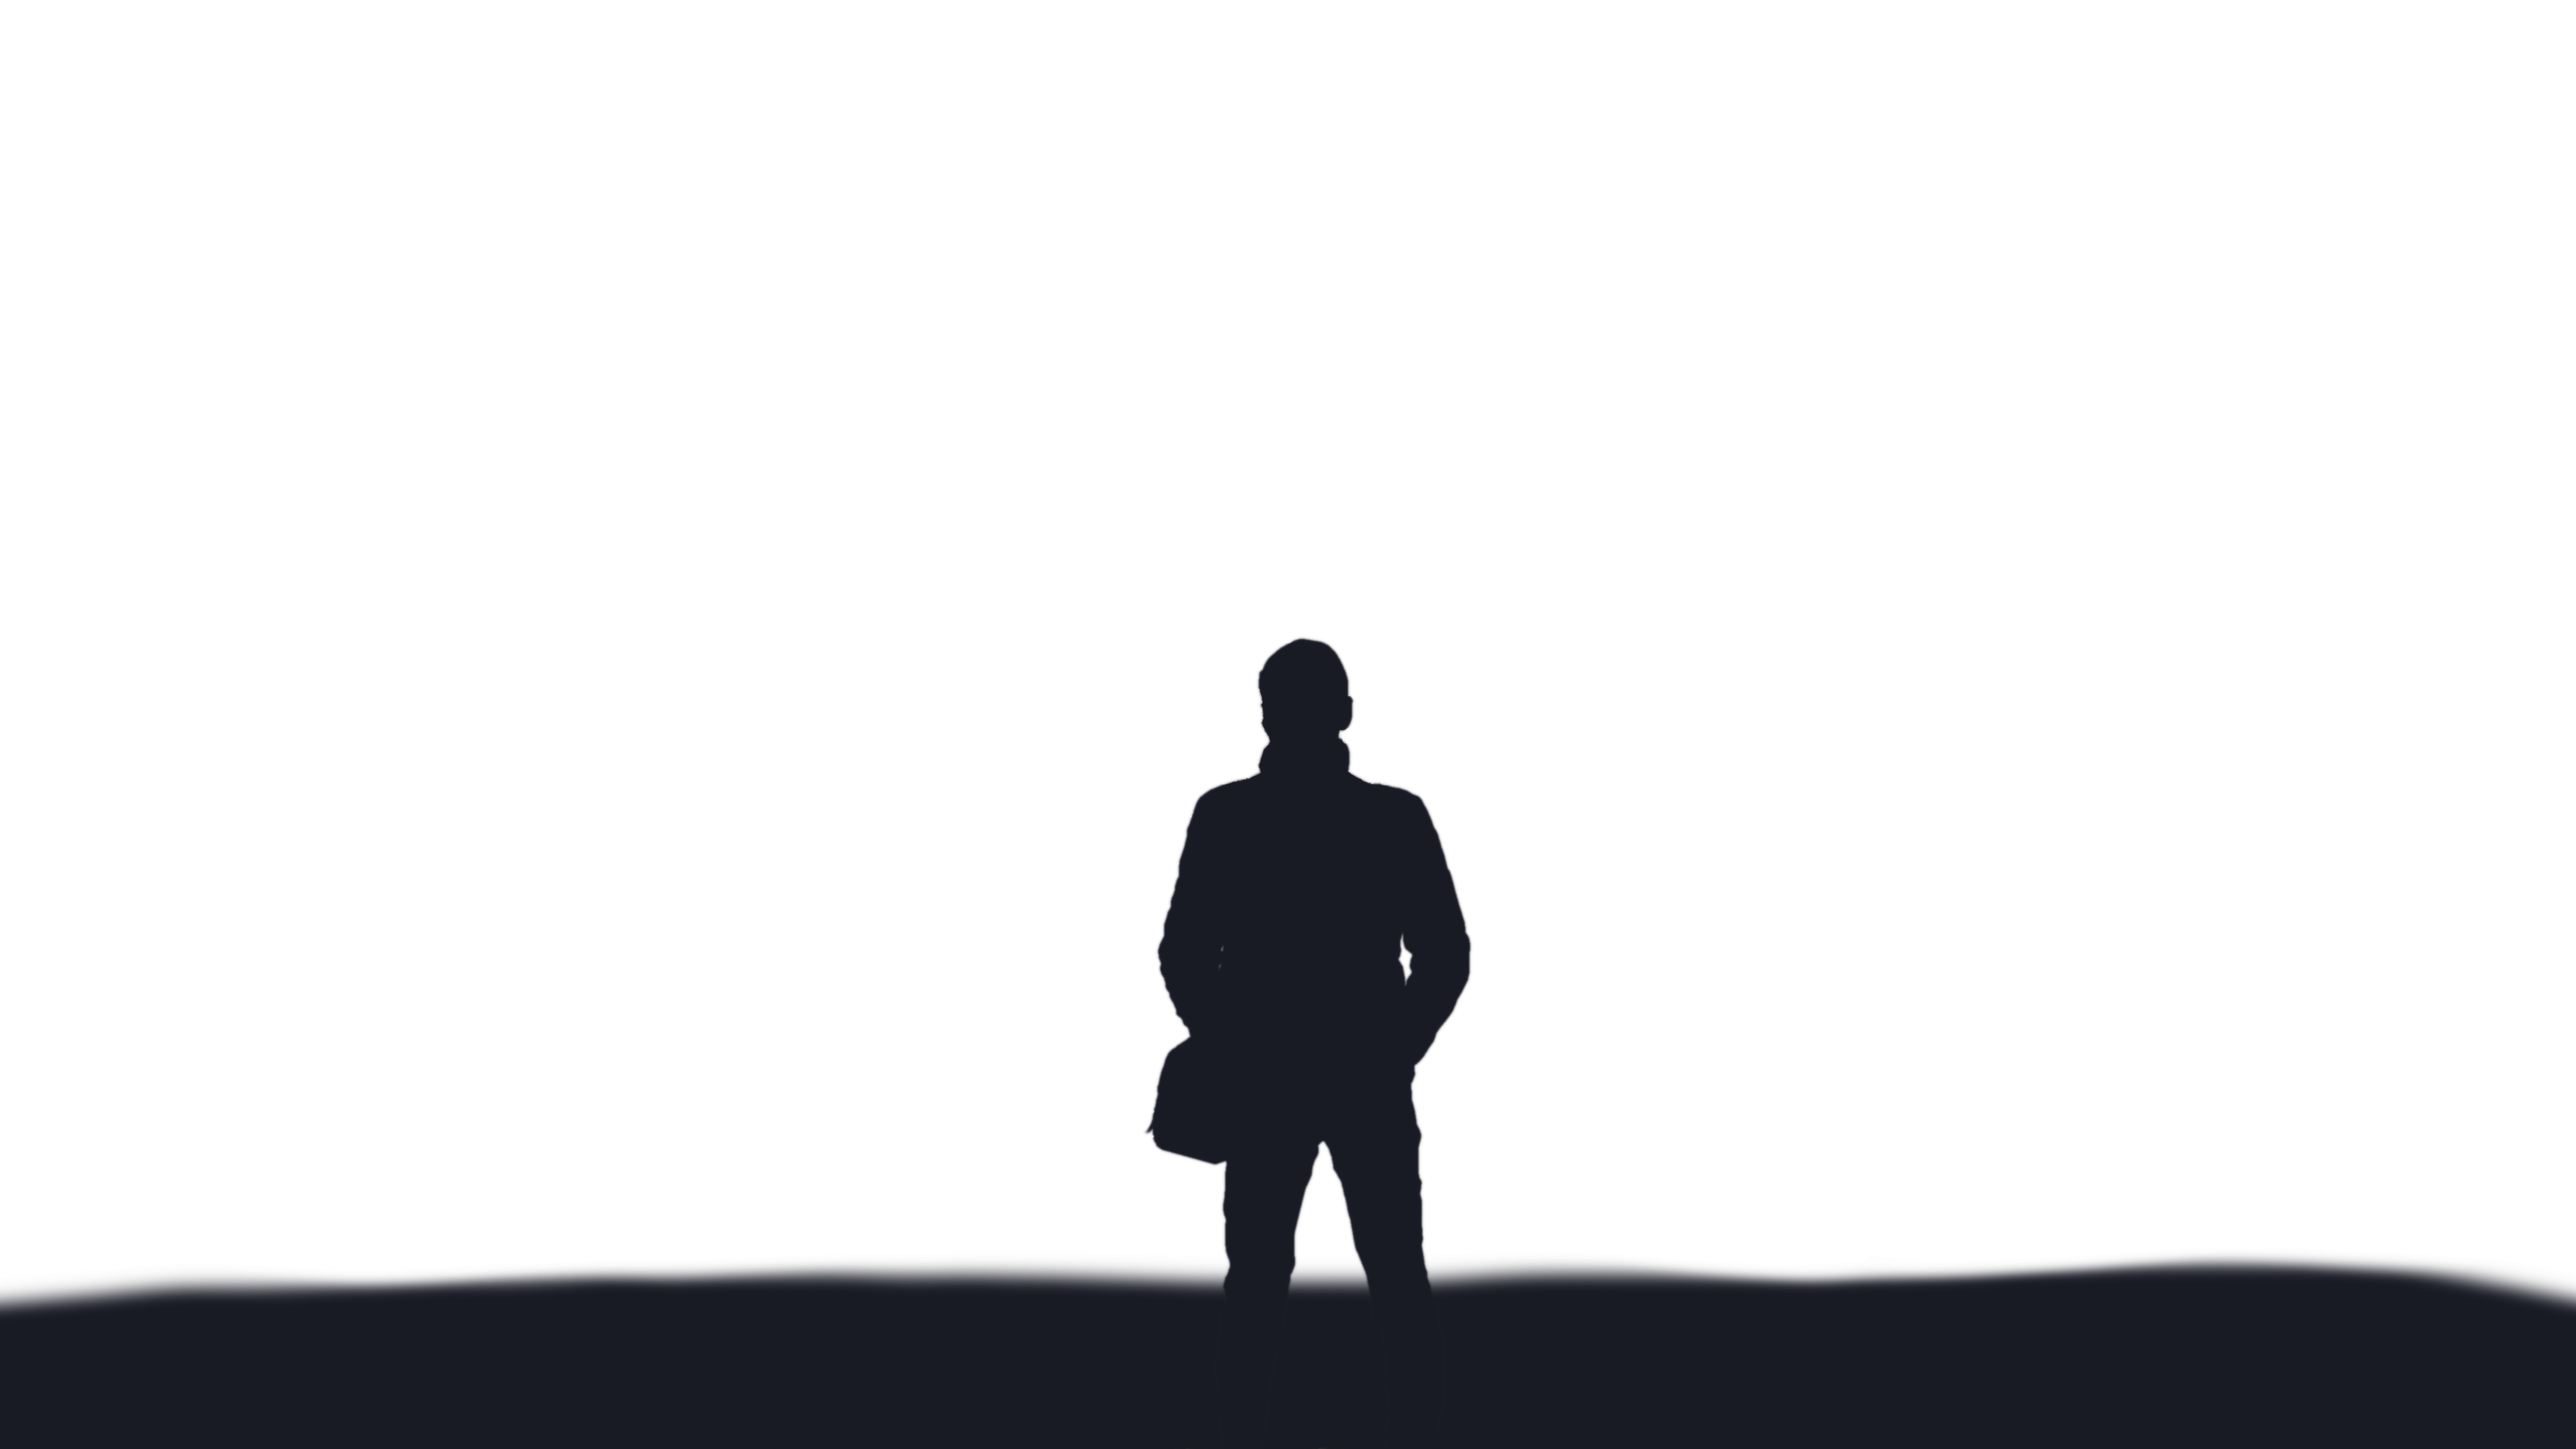
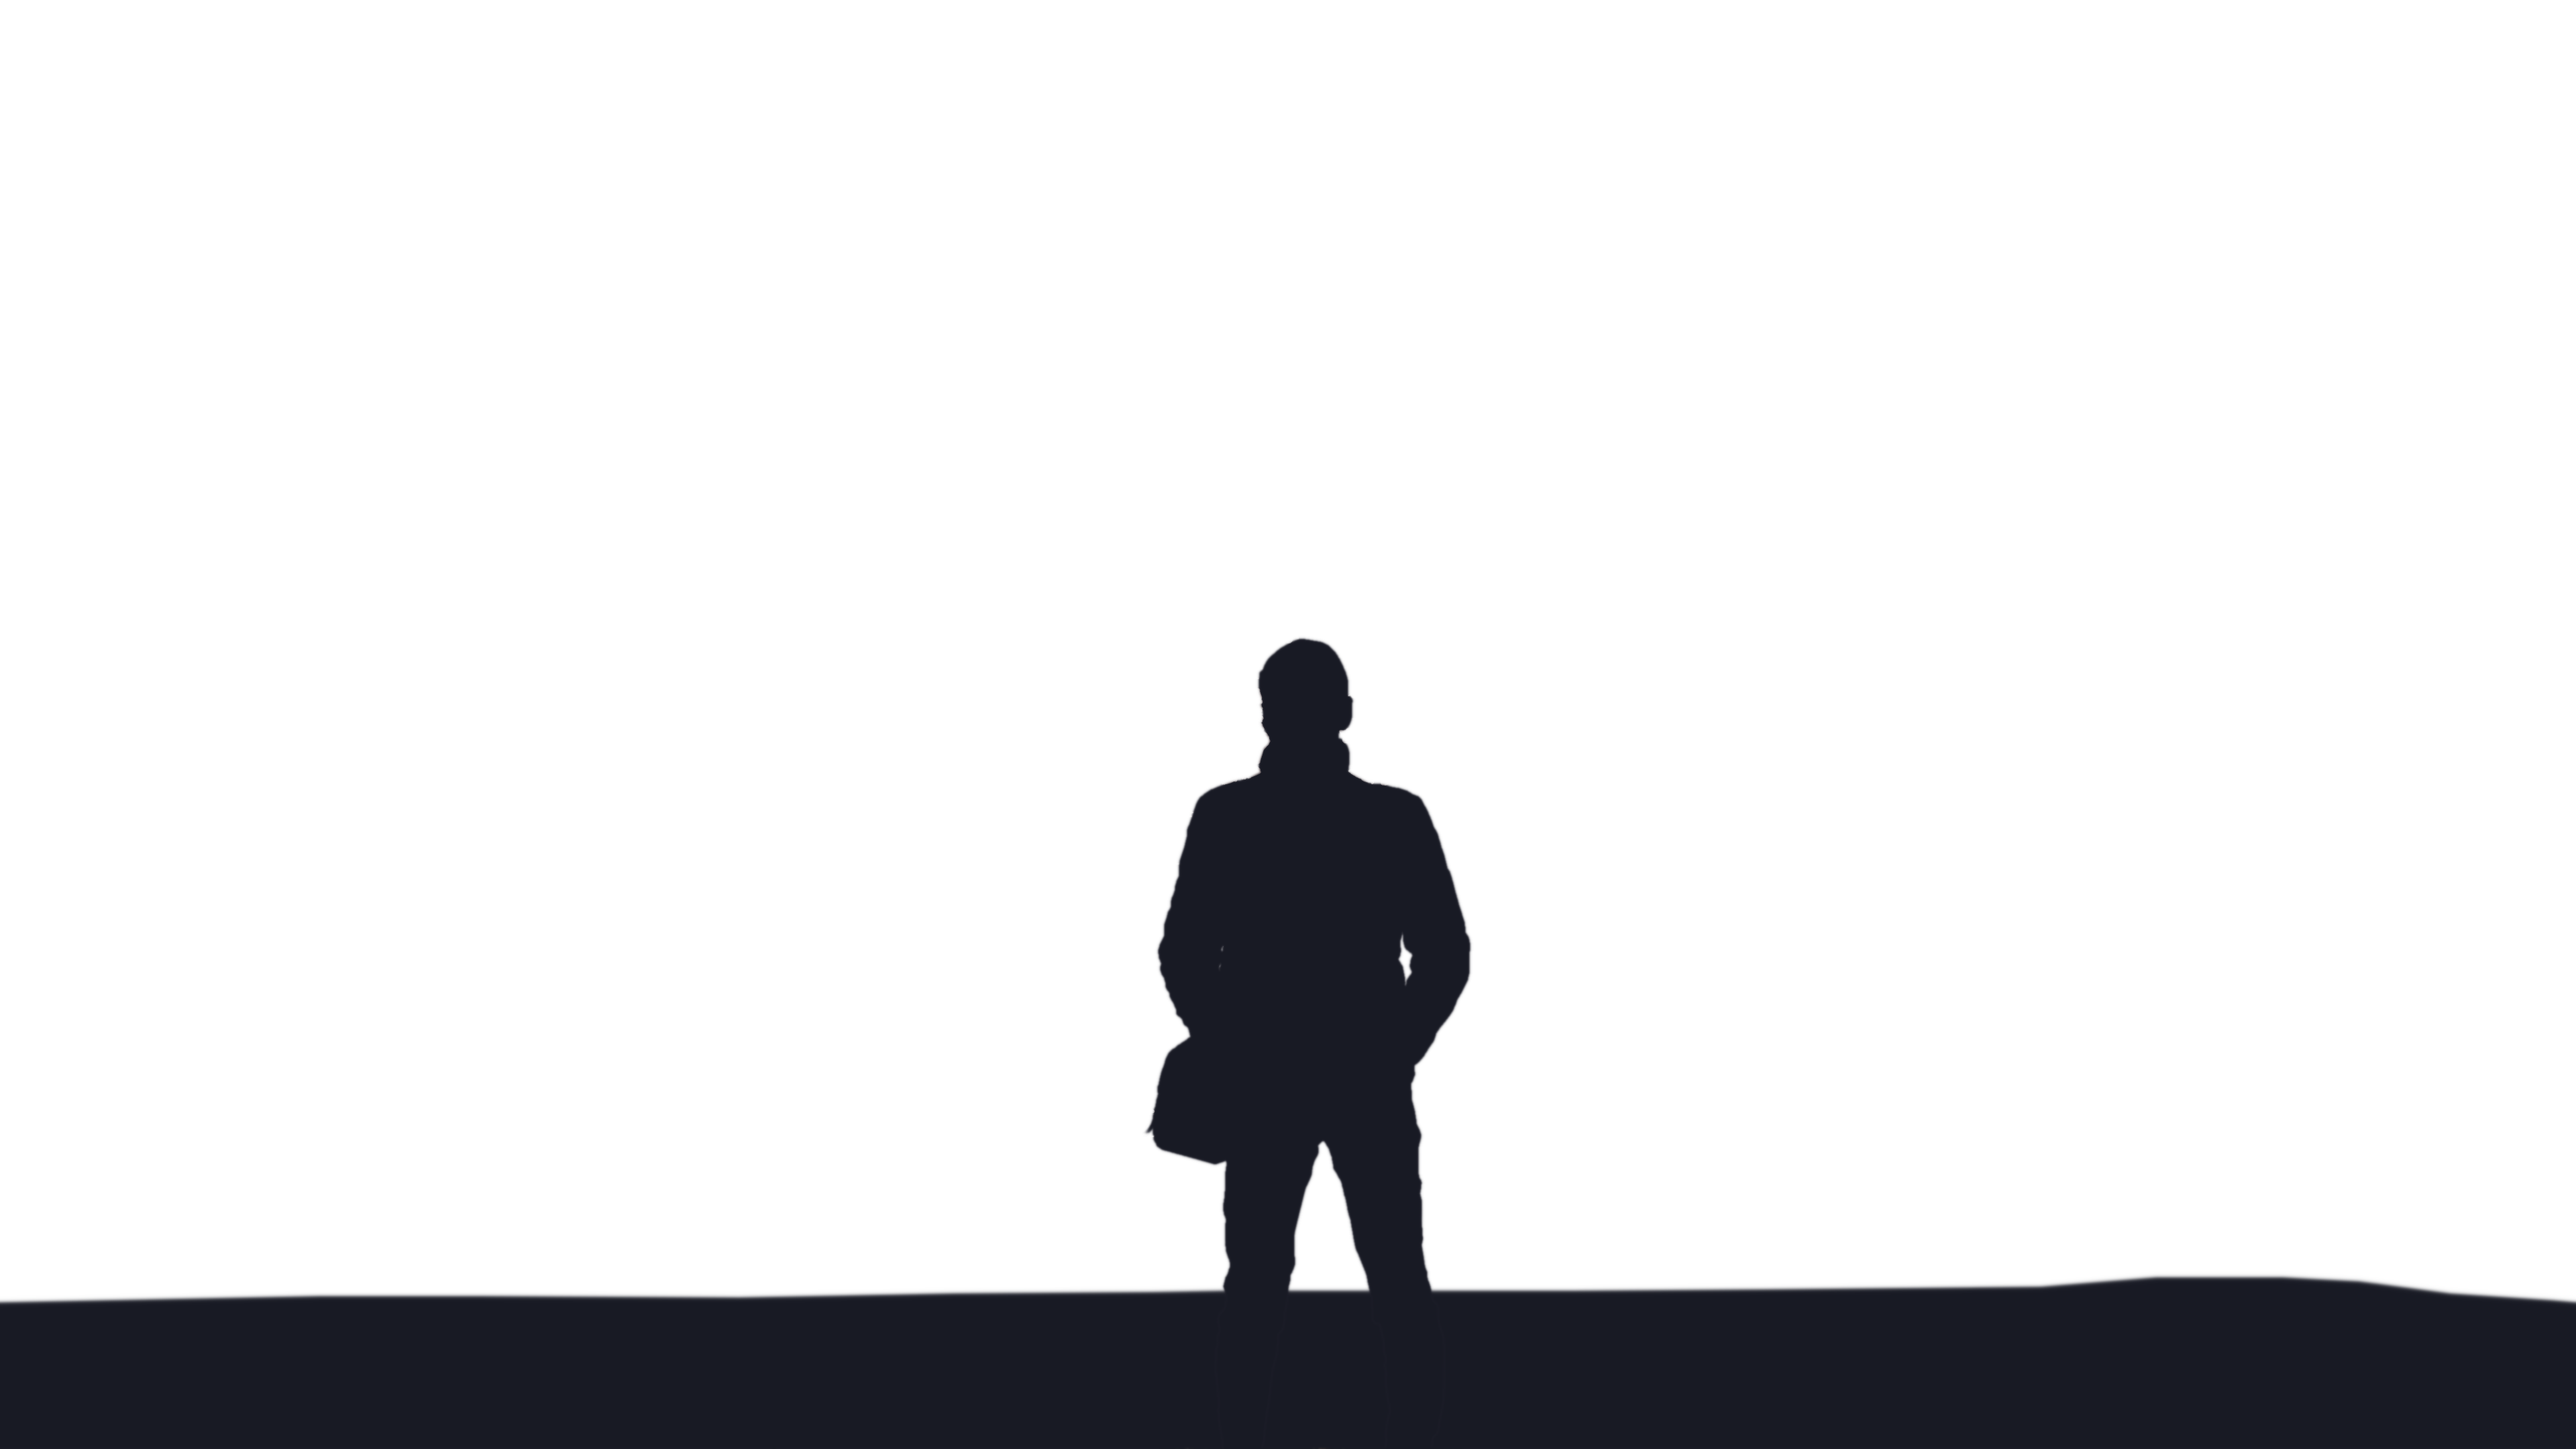
Update

Changed region(s): [[0.0, 0.8685, 1.0, 0.9306]]

diff --git a/src/components/Landing.tsx b/src/components/Landing.tsx
@@ -3,6 +3,7 @@ import React, { FC, ReactNode } from "react"
 
 import "./Landing.scss"
 import Navbar from "./Navbar"
+import Preloader from "./Preloader"
 
 type LandingProps = {
   children: ReactNode
@@ -13,18 +14,19 @@ const Landing: FC<LandingProps> = ({ children }) => {
     <section id="top" className="position-relative h-screen bg-stone-900">
       <div className="parallax">
         {/* Paolo Julian */}
-        <div className="font-semibold absolute top-1/2 left-1/2 -translate-x-1/2 -translate-y-1/2 z-20">
+        <div className="font-semibold absolute top-36 left-1/2 -translate-x-1/2 z-20">
           <h1 className="text-4xl md:text-5xl mb-8 tracking-wide">
             <span className="text-sky-50">PAOLO</span>
-            <span className="text-slate-700">JULIAN</span>
+            <span className="text-teal-400">JULIAN</span>
           </h1>
-          <div className="jobs text-gray-500 tracking-wide text-md md:text-lg text-left">
+          <div className="jobs text-sky-50 tracking-wide text-md md:text-lg text-left">
             <h3>Full Stack Developer</h3>
             <h3>Producer</h3>
             <h3>Musician</h3>
             <h3>Gamer</h3>
           </div>
         </div>
+        <Preloader />
         <div className={`parallax__layer parallax__layer__1`}>
           <StaticImage
             quality={90}
@@ -33,7 +35,7 @@ const Landing: FC<LandingProps> = ({ children }) => {
             src="../images/parallax/parallax__1.png"
           />
         </div>
-        <div className={`parallax__layer parallax__layer__8`}>
+        <div className={`parallax__layer parallax__layer__7`}>
           <StaticImage
             quality={90}
             className="h-full w-full"
@@ -41,7 +43,7 @@ const Landing: FC<LandingProps> = ({ children }) => {
             src="../images/parallax/parallax__2.png"
           />
         </div>
-        <div className={`parallax__layer parallax__layer__11`}>
+        <div className={`parallax__layer parallax__layer__9`}>
           <StaticImage
             quality={90}
             className="h-full w-full"
@@ -49,7 +51,7 @@ const Landing: FC<LandingProps> = ({ children }) => {
             src="../images/parallax/parallax__3.png"
           />
         </div>
-        <div className={`parallax__base`}>
+        <div className={`parallax__layer parallax__layer__11`}>
           <StaticImage
             quality={75}
             className="h-full w-full"
@@ -57,7 +59,9 @@ const Landing: FC<LandingProps> = ({ children }) => {
             src="../images/parallax/parallax__0.png"
           />
         </div>
-        <div className="parallax__cover">{children}</div>
+        <div className="parallax__cover z-50">
+          {children}
+        </div>
       </div>
     </section>
   )

diff --git a/src/components/Preloader.tsx b/src/components/Preloader.tsx
@@ -1,71 +1,17 @@
 import React from "react"
 
-import "./Preloader.css"
+import "./Preloader.scss";
 
 export interface PreloaderProps {}
 
 const Preloader: React.FC<PreloaderProps> = () => {
   return (
     <>
-      <div className="app-preloader inset-0 h-screen z-0">
-        <div className="opacity-50 fixed inset-0">
+        <div className="opacity-50 z-20 fixed inset-0">
           <div id="stars"></div>
           <div id="stars2"></div>
           <div id="stars3"></div>
         </div>
-        <div className="absolute inset-0 w-full h-full app-name text-7xl flex items-center justify-center">
-          <div className="flex">
-            <div className="text-gray-50 flex">
-              <div className="animate-wavy app-letter" style={{ "--i": 1 }}>
-                P
-              </div>
-              <div className="animate-wavy app-letter" style={{ "--i": 2 }}>
-                a
-              </div>
-              <div className="animate-wavy app-letter" style={{ "--i": 3 }}>
-                o
-              </div>
-              <div className="animate-wavy app-letter" style={{ "--i": 4 }}>
-                l
-              </div>
-              <div className="animate-wavy app-letter" style={{ "--i": 5 }}>
-                o
-              </div>
-            </div>
-            <div className="text-stone-400 flex">
-              <div className="animate-wavy app-letter" style={{ "--i": 6 }}>
-                J
-              </div>
-              <div className="animate-wavy app-letter" style={{ "--i": 7 }}>
-                u
-              </div>
-              <div className="animate-wavy app-letter" style={{ "--i": 8 }}>
-                l
-              </div>
-              <div className="animate-wavy app-letter" style={{ "--i": 9 }}>
-                i
-              </div>
-              <div className="animate-wavy app-letter" style={{ "--i": 10 }}>
-                a
-              </div>
-              <div className="animate-wavy app-letter" style={{ "--i": 11 }}>
-                n
-              </div>
-            </div>
-          </div>
-        </div>
-      </div>
-      <div className="parallax-wrapper absolute inset-0 w-full h-full z-10">
-        <div className="parallax buildings-0"></div>
-        {/* <StaticImage
-            src="../images/buildings-0.png"
-            loading="eager"
-            quality={95}
-            formats={["auto", "webp", "avif"]}
-            alt="Buildings"
-            className="absolute left-0 bottom-0 right-0 w-full"
-          /> */}
-      </div>
     </>
   )
 }

diff --git a/src/components/About/SoftSkills.tsx b/src/components/About/SoftSkills.tsx
@@ -8,7 +8,7 @@ const SoftSkills: FunctionComponent<SoftSkillsProps> = props => {
     <>
       <div
         id="softSkills"
-        className="flex items-center mb-6"
+        className="flex flex-row-reverse md:flex-row items-center mb-6"
         data-aos="fade-up"
         data-aos-delay="600"
         data-aos-anchor="#hardSkills"
@@ -16,7 +16,7 @@ const SoftSkills: FunctionComponent<SoftSkillsProps> = props => {
         <div className="text-sky-50 p-3 text-center inline-flex items-center justify-center w-12 h-12 shadow-lg rounded-full bg-orange-400">
           <svg
             xmlns="http://www.w3.org/2000/svg"
-            fill="none"
+            fill="#ffffff"
             viewBox="0 0 24 24"
             stroke="currentColor"
           >
@@ -28,7 +28,7 @@ const SoftSkills: FunctionComponent<SoftSkillsProps> = props => {
             />
           </svg>
         </div>
-        <h3 className="text-2xl ml-4 font-semibold leading-normal">Soft Skills</h3>
+        <h3 className="text-2xl mx-4 font-semibold leading-normal">Soft Skills</h3>
       </div>
 
       <div className="flex flex-col items-stretch text-gray-50 text-sm">

diff --git a/src/components/About/HardSkills.tsx b/src/components/About/HardSkills.tsx
@@ -6,7 +6,11 @@ export interface SkillsProps {}
 const Skills: FunctionComponent<SkillsProps> = props => {
   return (
     <>
-      <div id="hardSkills" className="flex items-center mb-6" data-aos="fade-up">
+      <div
+        id="hardSkills"
+        className="flex flex-row-reverse md:flex-row items-center mb-6"
+        data-aos="fade-up"
+      >
         <div className="text-sky-50 p-3 text-center inline-flex items-center justify-center w-12 h-12 shadow-lg rounded-full bg-orange-400">
           <svg
             xmlns="http://www.w3.org/2000/svg"
@@ -22,7 +26,9 @@ const Skills: FunctionComponent<SkillsProps> = props => {
             />
           </svg>
         </div>
-        <h3 className="text-2xl ml-4 font-semibold leading-normal">Hard Skills</h3>
+        <h3 className="text-2xl mx-4 font-semibold leading-normal">
+          Hard Skills
+        </h3>
       </div>
 
       <div

diff --git a/src/components/Preloader.scss b/src/components/Preloader.scss
@@ -1,8 +1,3 @@
-.app-preloader {
-  overflow: hidden;
-  background: radial-gradient(ellipse at bottom, #fbbf24 0%, #b45309 40%, #78350f 60%, #1c1917 100%);
-}
-
 .app-name {
   user-select: none;
   text-shadow: 0 0 10px rgba(255, 255, 255, 0.3);
@@ -569,24 +564,11 @@
     498px 1947px #f9fafb, 617px 880px #f9fafb, 240px 403px #f9fafb;
 }
 
-.parallax-wrapper {
-  margin-inline: auto;
-}
-.parallax.buildings-0 {
-  position: absolute;
-  left: 0;
-  bottom: -12px;
-  z-index: 10;
-  background: url('../images//buildings-0.png') no-repeat center;
-  width: 101%;
-  height: 70%;
-}
-
 @keyframes animStar {
   from {
-    transform: translateY(0px);
+    transform: translateY(-1000px);
   }
   to {
-    transform: translateY(-2000px);
+    transform: translateY(0px);
   }
 }

diff --git a/src/components/About/index.tsx b/src/components/About/index.tsx
@@ -14,8 +14,8 @@ const Introduction: FunctionComponent<IntroductionProps> = props => {
           About
           <div className="pt-4 mx-auto w-32 border-b-4 border-sky-100"></div>
         </div>
-        <div className="flex items-start justify-center mx-auto">
-          <div className="flex flex-col items-center justify-center">
+        <div className="flex flex-col md:flex-row items-start justify-center mx-auto">
+          <div className="flex flex-col items-center justify-center mx-auto mb-24 md:mb-0">
             <div className="select-none rounded-full overflow-hidden border-2 border-sky-300 h-80 w-80">
               <StaticImage src="../../images/profile.jpg" alt="Profile" />
             </div>

diff --git a/src/components/Layout.css b/src/components/Layout.css
@@ -14,24 +14,22 @@ body {
 }
 
 ::-webkit-scrollbar {
-  width: 20px;
+  width: 10px;
 }
 /* Track */
 ::-webkit-scrollbar-track {
-  background-color: #181a24;
-  border-radius: 10px;
+  @apply bg-slate-900;
 }
 
 /* Handle */
 ::-webkit-scrollbar-thumb {
-  @apply bg-stone-300;
-  border: 5px solid #181a24;
+  @apply bg-sky-100 border-4 border-slate-500;
   border-radius: 10px;
 }
 
 /* Handle on hover */
 ::-webkit-scrollbar-thumb:hover {
-  @apply bg-stone-400;
+  @apply bg-slate-400;
 }
 
 body {

diff --git a/src/components/Navbar.tsx b/src/components/Navbar.tsx
@@ -6,7 +6,7 @@ const Navbar: FunctionComponent<NavbarProps> = props => {
   return (
     <nav
       id="navbar"
-      className="sticky top-0 left-0 right-0 z-10 w-full h-14 bg-black border-b-2 border-b-sky-300"
+      className="sticky top-0 left-0 right-0 z-10 w-full h-14 bg-black border-b-2 border-b-sky-300 z-40"
     >
       <div className="mx-auto max-w-screen-lg h-full">
         <div className="flex text-gray-50 justify-center md:justify-end items-center h-full tracking-wider">
